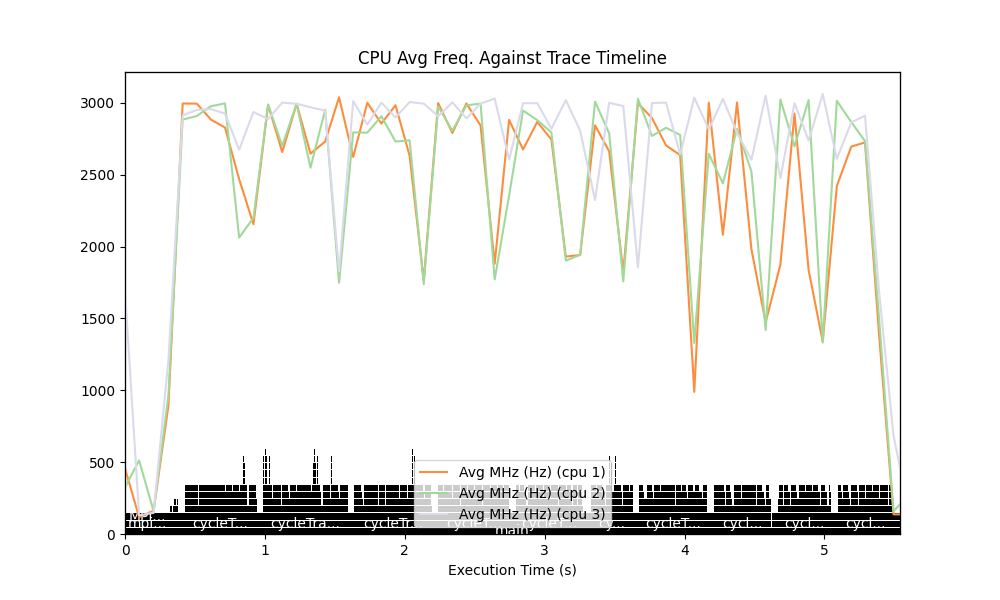
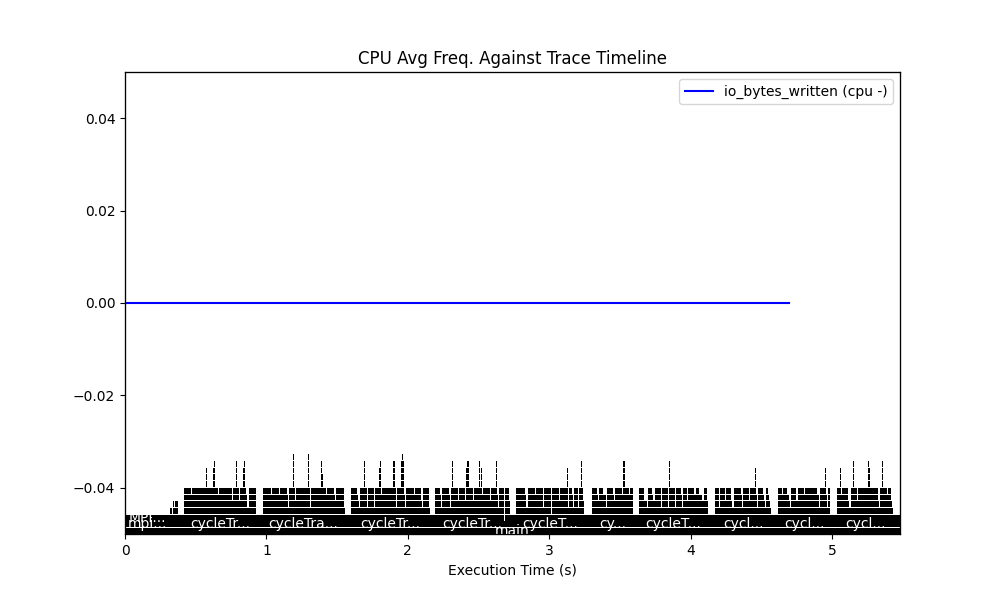
bugfix(turbostat): properly kill turbostat process at script exit

diff --git a/main.py b/main.py
@@ -60,12 +60,16 @@ def plot_event_timeline(event_timeline, power_measurements, columns, cpus, title
   # plot the power_metrics
   colormap = colormaps.get_cmap("tab20c")
   ax2 = ax.twinx()
+  ax2.set_zorder(3)
   labels = []
   for i, column in enumerate(columns):
     if not column in power_data.columns:
       raise Exception(f"Column {column} does not exist in the CSV.")
     for cpu in cpus:
-      stat_color = colormap(cpu / (max(cpus) + 1))
+      if cpu.isnumeric():
+        stat_color = colormap(cpu / (max(cpus) + 1))
+      else:
+        stat_color = "blue"
       # arbritrary 5% buffer on top of max point.
       ax2.set_ylim(0, power_data[column].max() +
                   (power_data[column].max()) * .05)
@@ -73,7 +77,7 @@ def plot_event_timeline(event_timeline, power_measurements, columns, cpus, title
       ax2.yaxis.set_label_position("left")
       ax2.plot(power_data.loc[power_data["CPU"] == f"{cpu}", "TIME_STAMP"],
               power_data.loc[power_data["CPU"] == f"{cpu}", column], picker=False, color=stat_color)
-      labels.append(f"{units[column]} (cpu {cpu})" or f"{column} ({cpu})")
+      labels.append(f"{column if not column in units.keys() else units[column] } (cpu {cpu})" or f"{column} ({cpu})")
   ax2.legend(labels)
 
   # plot the traces

diff --git a/turbostat.py b/turbostat.py
@@ -1,7 +1,7 @@
 import subprocess
+import atexit
 import csv
 import time
-import math
 
 def run_turbostat(interval=0.5, output_csv="./data/stats.csv"):
   """
@@ -13,13 +13,20 @@ def run_turbostat(interval=0.5, output_csv="./data/stats.csv"):
   process = subprocess.Popen(
       cmd, stdout=subprocess.PIPE, stderr=subprocess.PIPE, text=True)
 
+  def cleanup():
+    if process.poll() is None:
+      print("Killing turbostat process...")
+      process.terminate()
+
+  atexit.register(cleanup)
+
   try:
     header_line = next(process.stdout).strip()
   except StopIteration:
     print("No output from turbostat.")
     return
   headers = header_line.split()
-  headers.insert(0, "TIME_STAMP");
+  headers.insert(0, "TIME_STAMP")
 
   with open(output_csv, "w") as csv_file:
     writer = csv.writer(csv_file)
